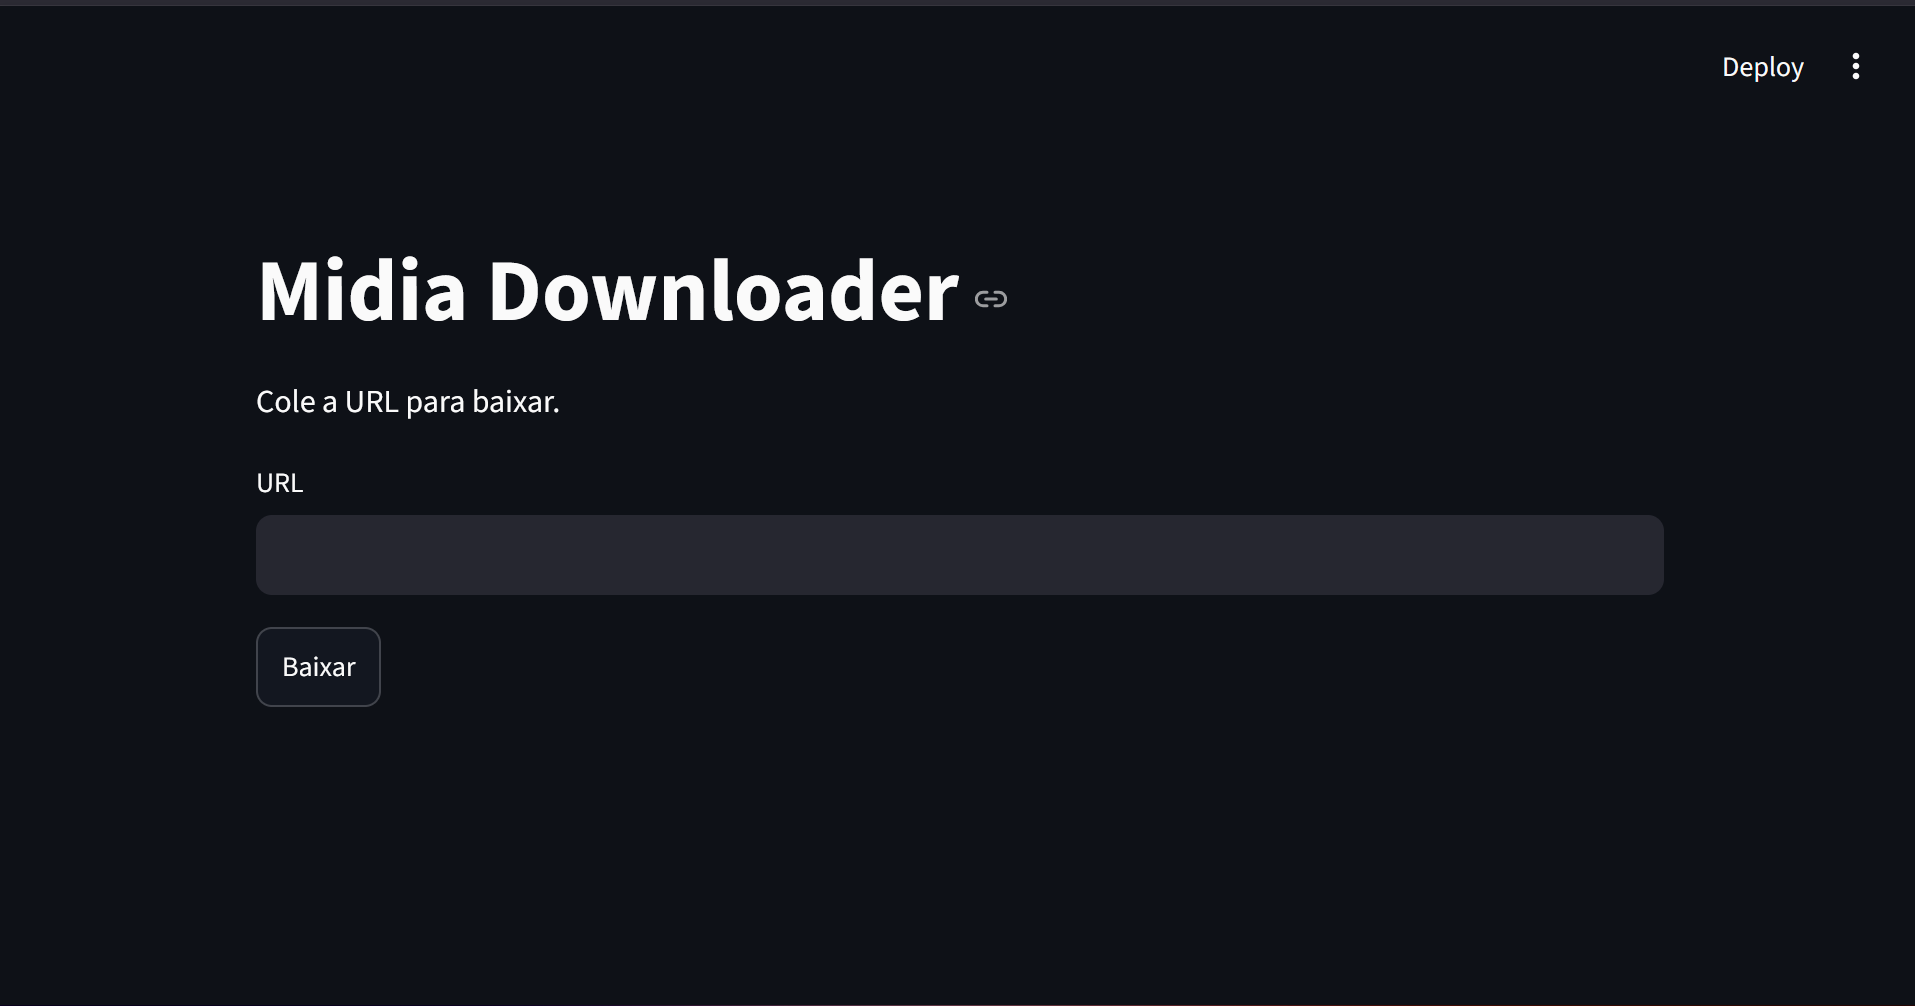
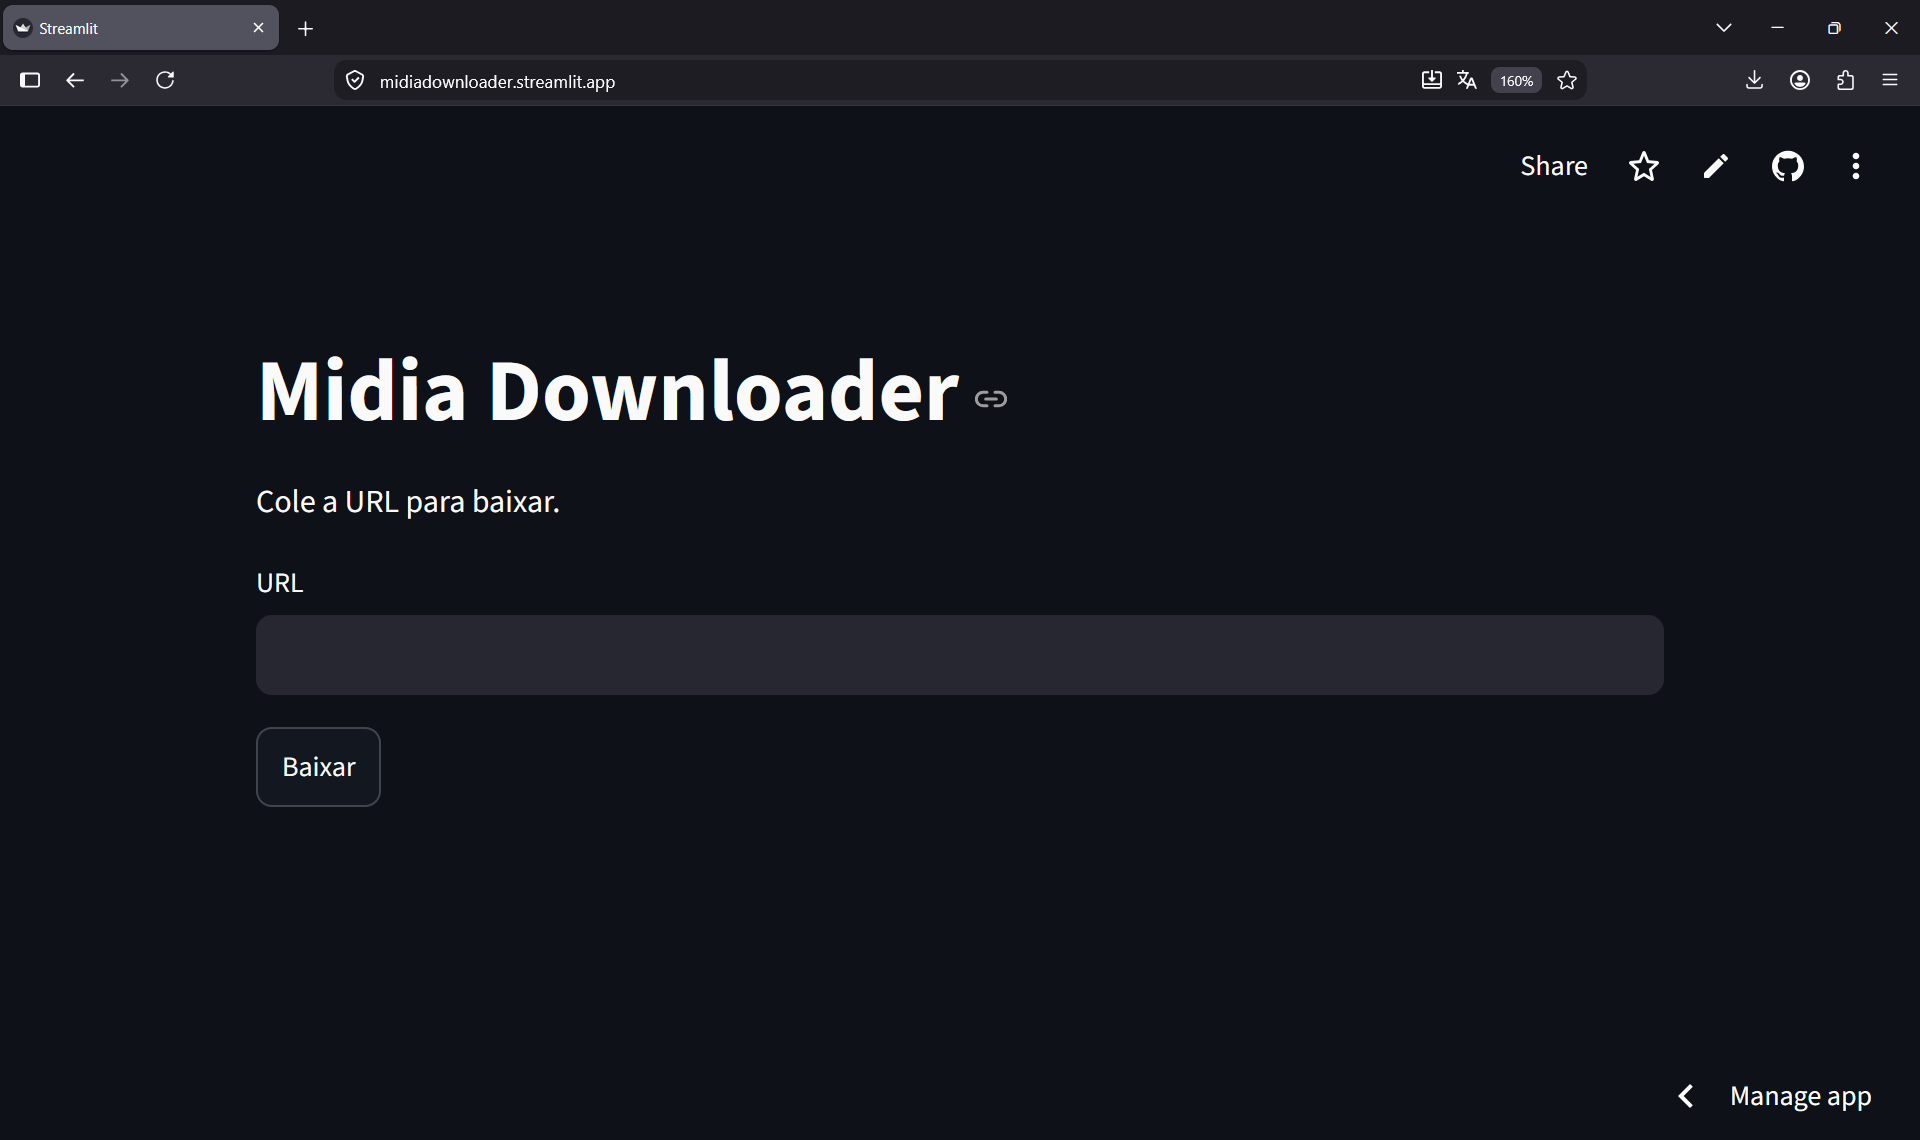
fix: arrumando o readme

diff --git a/README.md b/README.md
@@ -4,6 +4,8 @@
 
 Projeto simples em Python para baixar mídia pela URL usando `yt_dlp` com interface em `Streamlit`.
 
+Deploy: https://midiadownloader.streamlit.app/
+
 Ele foi pensado para facilitar o download de conteúdos como:
 
 - Reels e posts do Instagram
@@ -47,3 +49,9 @@ streamlit run link.py
 2. Cole a URL da mídia no campo indicado.
 3. Clique em "Baixar".
 4. O download será iniciado diretamente no navegador.
+
+## Observações
+
+- O YouTube não funciona neste deploy por limitações de ambiente e bloqueios da plataforma.
+- O Projeto funciona melhor com uso local pois como o deploy usa ip de data center o youtube bloqueia.
+- Use apenas em conteúdos permitidos e conforme as regras do serviço.
